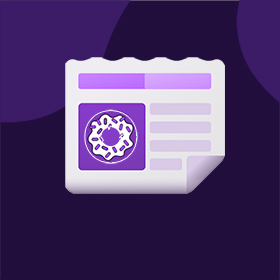
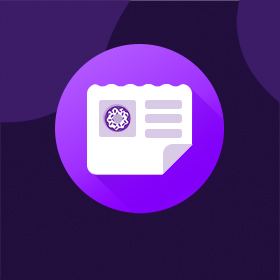
FRONT-101: Заменить картинки на неплагиатные

Changed region(s): [[0.1714, 0.1429, 0.8286, 0.7714]]

diff --git a/src/components/blocks/block-header/block-header.js b/src/components/blocks/block-header/block-header.js
@@ -1,72 +1,27 @@
 import React, { Component } from 'react';
+import { NavLink } from 'react-router-dom';
+import { inject, observer } from 'mobx-react';
+
 import RouteStore from 'store/routes';
 import AjaxModule from 'services/ajax';
 
 import Button from 'components/fragments/button/button';
-import './block-header.scss';
 import LogoImage from 'assets/img/logo.png';
 import AuthorAvatar from 'assets/img/michael.png';
 import ExitIcon from 'assets/img/exit.svg';
-import { inject, observer } from 'mobx-react';
-import {Link} from 'react-router-dom';
-import { classNames } from '../../../utils/class-names';
+import './block-header.scss';
 
 @inject('user')
 @observer
 class BlockHeader extends Component {
-    constructor(props) {
-        super(props);
-        const { pathname } = window.location;
-        const tabs = {
-            '/': 1,
-            '/collections': 2,
-            '/feed': 3,
-            '/search': 4,
-        };
-        this.state = {
-            activeTab: tabs[pathname] || 0,
-        };
-    }
-
     componentDidMount() {
         const { user } = this.props;
         AjaxModule.get(RouteStore.api.me).then((data) => {
             user.update(data);
-            const { pathname } = window.location;
-            const tabs = {
-                '/': 1,
-                '/collections': 2,
-                '/feed': 3,
-                '/search': 4,
-            };
-            tabs[`/users/${user.login}/`] = 5;
-            this.setState({
-                activeTab: tabs[pathname] || 0,
-            });
         }).catch((error) => {
             console.log(error.message);
         });
     }
-
-    handleChangeTab = (event) => {
-        let id = event.target.getAttribute('data-id');
-        if (!id) {
-            const parent = event.target.closest('[data-id]');
-            if (!parent) {
-                return;
-            }
-            id = parent.getAttribute('data-id');
-        }
-        this.setState({
-            activeTab: +id,
-        });
-    };
-
-    handleLogoClick = () => {
-        this.setState({
-            activeTab: 1,
-        });
-    };
 
     handleExitClick = () => {
         const { user } = this.props;
@@ -88,28 +43,20 @@ class BlockHeader extends Component {
         return (
             <div className="header">
                 <div className="header-left">
-                    <Link className="header-logo" to={RouteStore.pages.main} onClick={this.handleLogoClick}>
+                    <NavLink className="header-logo" exact to={RouteStore.pages.main}>
                         <img className="logo" src={LogoImage} alt="logo"/>
-                    </Link>
-                    <Link className={this._getTabClassName(1)} to={RouteStore.pages.main} onClick={this.handleChangeTab} data-id="1">
+                    </NavLink>
+                    <NavLink className="header-button" exact to={RouteStore.pages.main} data-id="1">
                         <Button text="Главная" type={Button.types.block}/>
-                    </Link>
-                    <Link className={this._getTabClassName(2)} to={RouteStore.pages.collections} onClick={this.handleChangeTab} data-id="2">
+                    </NavLink>
+                    <NavLink className="header-button" to={RouteStore.pages.collections} data-id="2">
                         <Button text="Подборки" type={Button.types.block}/>
-                    </Link>
+                    </NavLink>
                     {contentTabs}
                 </div>
                 {authTabs}
             </div>
         );
-    }
-
-    _getTabClassName(id) {
-        const { activeTab } = this.state;
-        return classNames([
-            'header-button',
-            activeTab === id && 'header-button__active',
-        ]);
     }
 
     _getAuthTabs = () => {
@@ -118,13 +65,13 @@ class BlockHeader extends Component {
         if (user.login) {
             return (
                 <div className="header-right">
-                    <Link className='header-create header-button__main' to={RouteStore.pages.posts.new} onClick={this.handleChangeTab} data-id="0">
+                    <NavLink className='header-create header-button__main' to={RouteStore.pages.posts.new} data-id="0">
                         <Button text="Создать пост" type={Button.types.block}/>
-                    </Link>
-                    <Link className={this._getTabClassName(5)} to={`/users/${user.login}`} onClick={this.handleChangeTab} data-id="5" >
+                    </NavLink>
+                    <NavLink className="header-button" to={`/users/${user.login}`} data-id="5" >
                         <Button text={`${user.name}`} type={Button.types.block}/>
                         <img className="user" src={avatar} alt="user"/>
-                    </Link>
+                    </NavLink>
                     <div className="header-exit" onClick={this.handleExitClick}>
                         <img className="exit" src={ExitIcon} alt="exit"/>
                     </div>
@@ -133,9 +80,9 @@ class BlockHeader extends Component {
         }
         return (
             <div className="header-right">
-                <Link className='header-button' to={RouteStore.pages.user.login}>
+                <NavLink className='header-button' to={RouteStore.pages.user.login}>
                     <Button text="Войти" type={Button.types.block}/>
-                </Link>
+                </NavLink>
             </div>
         );
     };
@@ -149,12 +96,12 @@ class BlockHeader extends Component {
 
         return (
             <>
-                <Link className={this._getTabClassName(3)} to="/feed" onClick={this.handleChangeTab} data-id="3">
+                <NavLink className="header-button" to="/feed" data-id="3">
                     <Button text="Лента" type={Button.types.block}/>
-                </Link>
-                <Link className={this._getTabClassName(4)} to={RouteStore.pages.search} onClick={this.handleChangeTab} data-id="4">
+                </NavLink>
+                <NavLink className="header-button" to={RouteStore.pages.search} data-id="4">
                     <Button text="Поиск" type={Button.types.block}/>
-                </Link>
+                </NavLink>
             </>
         );
     };

diff --git a/src/components/blocks/block-footer/block-footer.js b/src/components/blocks/block-footer/block-footer.js
@@ -16,7 +16,7 @@ export default class BlockFooter extends React.Component {
                     <Link to={'/'} className="block-footer__link">Контакты и обратная связь</Link>
                     <Link to={'/'} href="" className="block-footer__link">О компании</Link>
                     <Link to={'/'} className="block-footer__link">Партнерам</Link>
-                    <div className="block-footer__copyright">Команда Badgers, 2020. Все права не защищены ©</div>
+                    <div className="block-footer__copyright">Команда Badgers, 2020. Все права защищены ©</div>
                 </div>
             </div>
         );

diff --git a/src/components/blocks/block-layout-index-slot-finalize/block-layout-index-slot-finalize.js b/src/components/blocks/block-layout-index-slot-finalize/block-layout-index-slot-finalize.js
@@ -13,7 +13,7 @@ export default class BlockLayoutIndexSlotFinalize extends React.Component {
         return (
             <div className="block-layout-index-slot-finalize">
                 <div className="block-layout-index-slot-finalize__title">
-                    Твои фанаты ждут тебя
+                    Ваши фанаты ждут вас
                 </div>
                 <div className="block-layout-index-slot-finalize__cta-button">
                     <Button

diff --git a/src/components/blocks/block-header/block-header.scss b/src/components/blocks/block-header/block-header.scss
@@ -73,7 +73,7 @@
       }
     }
 
-    &__active, &:hover {
+    &.active, &:hover {
       border-bottom: 4px solid $color-pink;
       box-sizing: border-box;
       transition: .3s;
